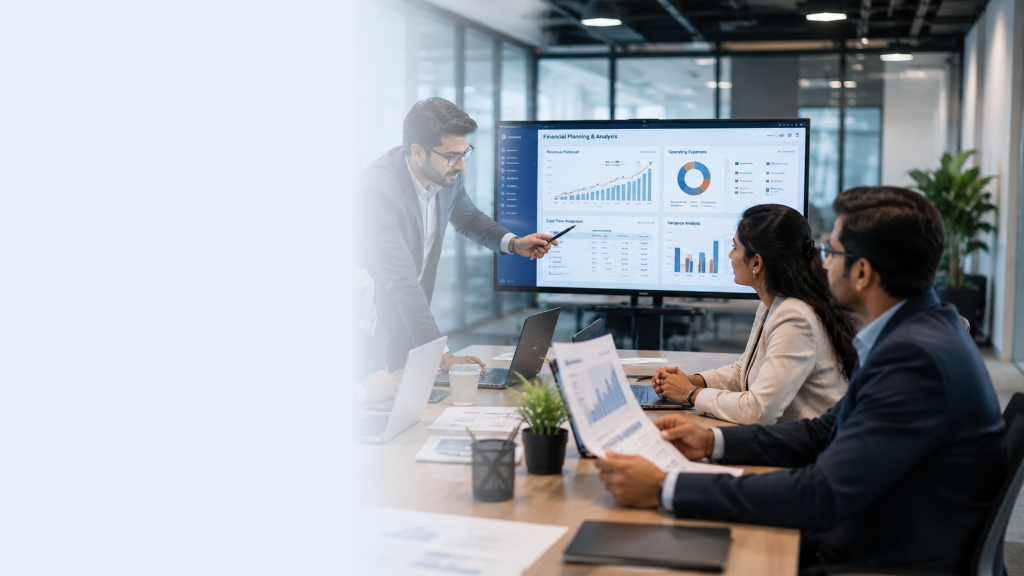
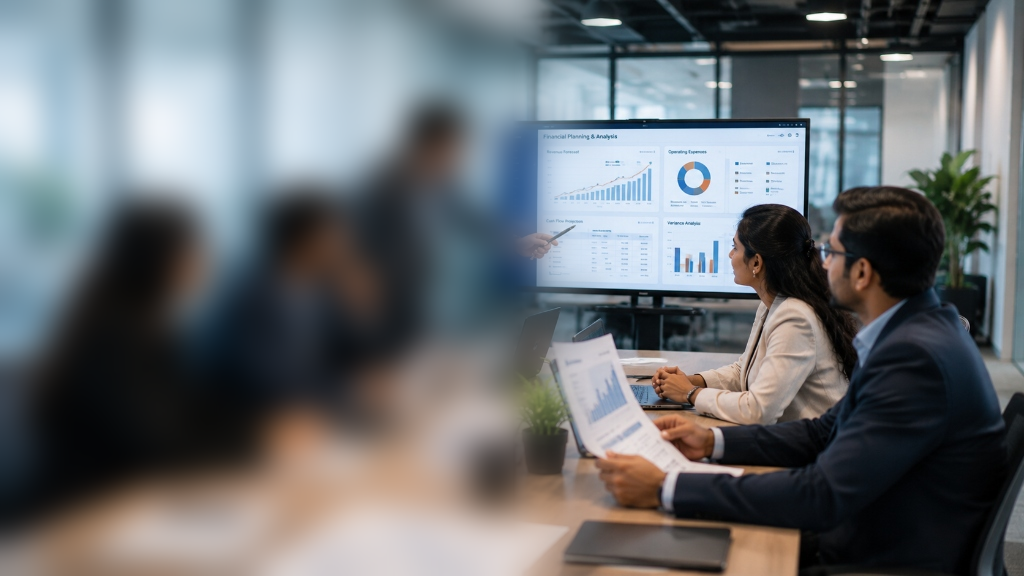
feat: Reduce boardroom background blur radius by 20% to 16px and set scaling to cover

diff --git a/dist/index.html b/dist/index.html
@@ -12,8 +12,8 @@
       href="https://fonts.googleapis.com/css2?family=Plus+Jakarta+Sans:wght@400;500;600;700;800&family=Syne:wght@600;700;800&display=swap"
       rel="stylesheet"
     />
-    <script type="module" crossorigin src="/assets/index-QKsPhqvd.js"></script>
-    <link rel="stylesheet" crossorigin href="/assets/index-CtYlAhBd.css">
+    <script type="module" crossorigin src="/assets/index-uh2LlHsQ.js"></script>
+    <link rel="stylesheet" crossorigin href="/assets/index-B68YS-nc.css">
   </head>
   <body>
     <div id="root"></div>

diff --git a/src/index.css b/src/index.css
@@ -6990,8 +6990,7 @@ body {
 .impl-hero {
   display: flex;
   min-height: 520px;
-  background-color: #e6effa;
-  background-size: contain;
+  background-size: cover;
   background-position: right bottom;
   background-repeat: no-repeat;
   padding: 130px 0 40px;
